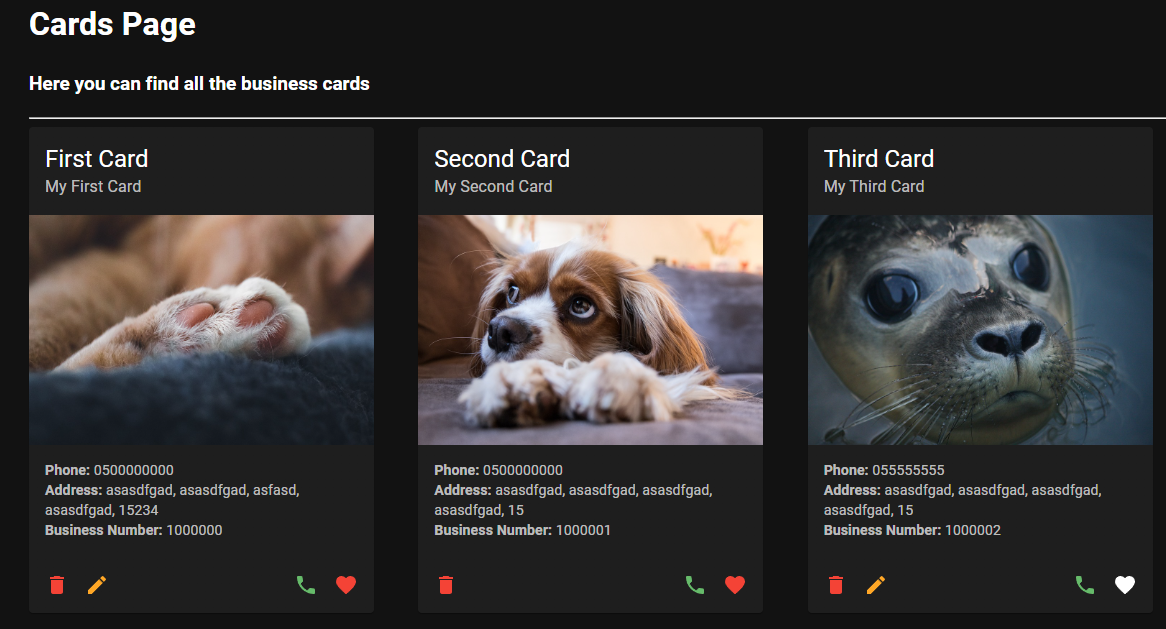
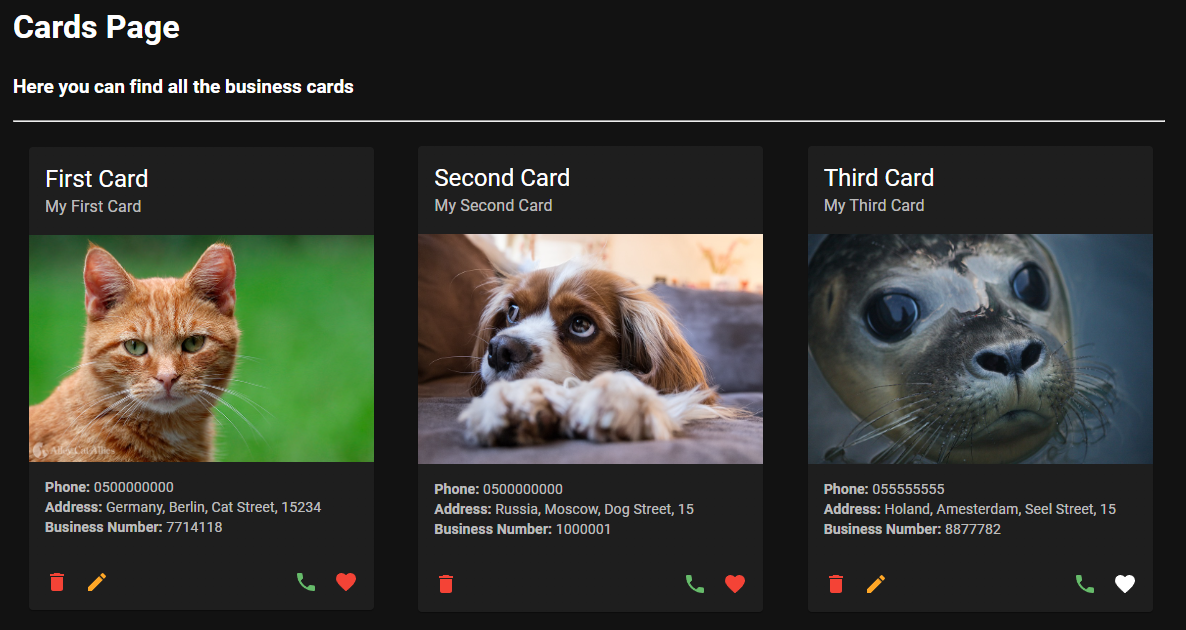
Final

diff --git a/src/pages/CardInfoPage.jsx b/src/pages/CardInfoPage.jsx
@@ -153,7 +153,7 @@ const CardInfoPage = () => {
                                     <b>Address: </b>
                                 </Typography>
                                 <Typography variant="body2" color="text.secondary">
-                                    {card.state && card.state + ", "}{card.country + ", " + card.city + ", " + card.street + ", " + card.houseNumber}{", " + card.zipCode && card.zipCode}
+                                    {card.state && card.state + ", "}{card.country}{", " + card.state && card.state}{", " + card.city + ", " + card.street + ", " + card.houseNumber}{", " + card.zipCode && card.zipCode}
                                 </Typography>
                                 <Typography variant="h6" color="text.primary">
                                     <b>Business Number: </b>

diff --git a/src/components/CardComponent.jsx b/src/components/CardComponent.jsx
@@ -73,7 +73,7 @@ const CardComponent = ({ card, onDelete, onEdit, isAdmin, isBiz, likeCard }) => 
               <b>Phone: </b>{card.phone}
             </Typography>
             <Typography variant="body2" color="text.secondary">
-              <b>Address: </b>{card.state && card.state + ", "}{card.country + ", " + card.city + ", " + card.street + ", " + card.houseNumber}{", " + card.zipCode && card.zipCode}
+              <b>Address: </b>{card.state && card.state + ", "}{card.country}{", " + card.state && card.state}{", " + card.city + ", " + card.street + ", " + card.houseNumber}{", " + card.zipCode && card.zipCode}
             </Typography>
             <Typography variant="body2" color="text.secondary">
               <b>Business Number: </b>{card.bizNumber}

diff --git a/src/pages/UserInfoPage.jsx b/src/pages/UserInfoPage.jsx
@@ -147,7 +147,7 @@ const UserInfoPage = () => {
                                     <b>Address: </b>
                                 </Typography>
                                 <Typography variant="body2" color="text.secondary">
-                                    {user.state && user.state + ", "}{user.country + ", " + user.city + ", " + user.street + ", " + user.houseNumber}{", " + user.zipCode && user.zipCode}
+                                    {user.country}{", " + user.state && user.state}{" ," + user.city + ", " + user.street + ", " + user.houseNumber}{", " + user.zipCode && user.zipCode}
                                 </Typography>
                             </CardContent>
                             {/* </CardActionArea> */}
